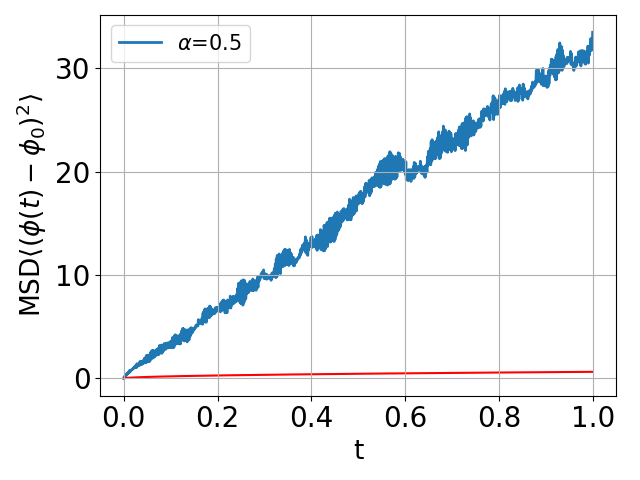
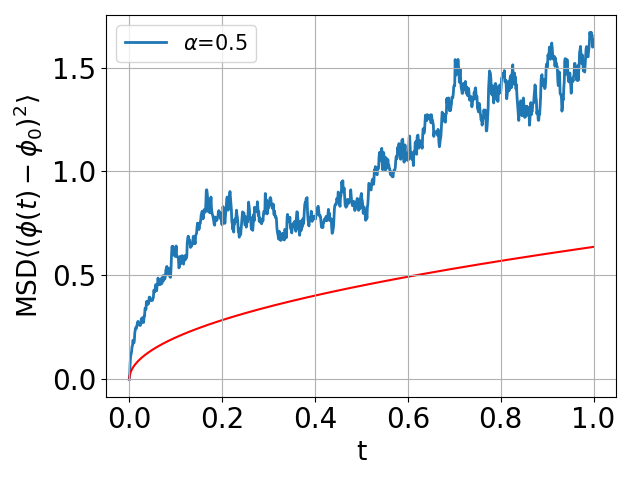
added new discretization to Caputo, working better.

diff --git a/src/world.py b/src/world.py
@@ -51,21 +51,76 @@ class afbm():
             sum_term = 0
             if time-2>=0:
                 for i in range(time-1):
-                    sum_term += (r_trajectory[i]+r_trajectory[i+1])*((time-i)**(1-self.alpha)-(time-i-1)**(1-self.alpha))
+                    sum_term += (r_trajectory[i]+r_trajectory[i+1])*((self.n-i)**(1-self.alpha)-(self.n-i-1)**(1-self.alpha))
             
             # Update rule
-            
-            # original
-            phi_current = - phi_prev + 2*(self.h)**(self.alpha-1)*(self.thetaR*gamma(2-self.alpha)*(B_H[time]-B_H[0])) - sum_term
-            
-            # print(B_H[time], sum_term)
-            
-            # tentatives
-            # phi_current = - phi_prev + 2*(self.h)**(self.alpha-1)*(self.thetaR*gamma(2-self.alpha)*(B_H[time]-B_H[time-1])) - sum_term
-            
-            # phi_current = phi_prev + (self.h)**(self.alpha-1)*(self.thetaR*gamma(2-self.alpha)*(B_H[time]-B_H[time-1])) + sum_term
-            # phi_current = phi_prev + (B_H[time] - B_H[time-1])
 
+            phi_current = - phi_prev + 2*(self.h)**(self.alpha-1)*(self.thetaR*gamma(2-self.alpha)*(B_H[time])) - sum_term
+
+            # Save and update old 
+            r_trajectory[time] = phi_current
+            phi_prev = np.copy(phi_current)
+            
+        return r_trajectory
+
+    def cnj(self, k):
+        return (k+1)**(1-self.alpha) - k**(1-self.alpha)
+
+    def trajectory_new_discr(self):
+        
+        # Generate noise 
+        f = FBM(n = self.n, hurst = self.H, length = self.Tf, method = 'daviesharte')
+        B_H = f.fbm()
+        # B_H = f.fbm()/np.sqrt(self.H*(2*self.H-1)*gamma(2*self.H-1))
+        
+        dB_H = self.n/self.Tf*np.diff(B_H)
+        
+        # Loop over timesteps
+        r_trajectory = np.zeros(self.n)
+        phi_prev = self.phi0
+        for time in range(1, self.n):
+            
+            # Sum term
+            sum_term = 0
+            for i in range(1, time-1):
+                
+                sum_term += self.cnj(time-i) * (r_trajectory[i]-r_trajectory[i+1])
+            
+            # Update rule
+            phi_current = phi_prev + ((self.h)**(self.alpha))*(gamma(2-self.alpha)*dB_H[time]) + sum_term
+
+            # Save and update old 
+            r_trajectory[time] = phi_current
+            phi_prev = np.copy(phi_current)
+            
+        return r_trajectory
+    
+    def bi(self, k):
+        
+        return (k+1)**(1-self.alpha) - k**(1-self.alpha)
+    
+    def trajectory_new_discr2(self):
+        
+        # Generate noise 
+        f = FBM(n = self.n, hurst = self.H, length = self.Tf, method = 'daviesharte')
+        B_H = f.fbm()
+        # B_H = f.fbm()/np.sqrt(self.H*(2*self.H-1)*gamma(2*self.H-1))
+        
+        dB_H = self.n/self.Tf*np.diff(B_H)
+        
+        # Loop over timesteps
+        r_trajectory = np.zeros(self.n)
+        phi_prev = self.phi0
+        for time in range(1, self.n):
+            
+            # Sum term
+            sum_term = 0
+            for i in range(1, time-1):
+                
+                sum_term += self.bi(time) * (r_trajectory[i])
+            
+            # Update rule
+            phi_current = ((self.h)**(self.alpha))*(gamma(2-self.alpha)*dB_H[time]) + sum_term
 
             # Save and update old 
             r_trajectory[time] = phi_current
@@ -75,9 +130,11 @@ class afbm():
 
     def run(self):
             for r in range(self.realizations):
-                print("----Running for alpha", self.alpha, 'realization', r)
+                # print("----Running for alpha", self.alpha, 'realization', r)
 
-                r_trajectory = self.trajectory()
+                # r_trajectory = self.trajectory()
+                r_trajectory = self.trajectory_new_discr()
+                # r_trajectory = self.trajectory_new_discr2()
 
                 self.phi_matrix = np.vstack((self.phi_matrix, r_trajectory))
                 

diff --git a/src/fLe.py b/src/fLe.py
@@ -37,7 +37,7 @@ class fle():
         if self.alpha == 1:
             self.A_H = 1
         else:
-            self.A_H = 1#1/np.sqrt(H*(2*H-1)*gamma(2*H-1))
+            self.A_H = 1/np.sqrt(H*(2*H-1)*gamma(2*H-1))
            
             
     def relaxation_overdamped(self):
@@ -144,33 +144,33 @@ def get_msd(eq,realizations):
         df_msd["x_"+str(r)] = eq.numerical        
     df_msd.set_index("t", inplace = True)
 
-    msd = fbs.msd(df_msd, True)
+    msd = fbs.msd(df_msd, False)
     return msd
 
 realizations = 100
 
 
-alpha = 1
-eq1 = fle(alpha)
-eq1.params(h=0.01, Tf=10, T0 = 0)
-msd1 = get_msd(eq1,realizations)
+# alpha = 1
+# eq1 = fle(alpha)
+# eq1.params(h=0.01, Tf=10, T0 = 0)
+# msd1 = get_msd(eq1,realizations)
 
 alpha = 0.5
 eq05 = fle(alpha)
-eq05.params(h=0.01, Tf=10, T0 = 0)
+eq05.params(h=0.001, Tf=1, T0 = 0)
 msd05 = get_msd(eq05,realizations)
 
 
 alpha = 0.3
 eq03 = fle(alpha)
-eq03.params(h=0.01, Tf=10, T0 = 0)
+eq03.params(h=0.001, Tf=1, T0 = 0)
 msd03 = get_msd(eq03,realizations)
 
 
 import matplotlib.pyplot as plt
 plt.plot(eq03.t,msd03, label = "0.3")
 plt.plot(eq05.t,msd05, label = "0.5")
-plt.plot(eq1.t,msd1, label = "1")
+# plt.plot(eq1.t,msd1, label = "1")
 #plt.plot(eq.t, msd_teo)
 plt.legend()
 plt.show()

diff --git a/src/script_phi.py b/src/script_phi.py
@@ -8,11 +8,11 @@ import time
 start_time = time.time()
 
 # alphas = [0.1, 0.3, 0.5, 0.7, 0.9, 1]
-alphas = [0.5]
+alphas = [0.3, 0.5, 1]
 # H = 0.1
-realizations = 100
-Tf = 1
-h = 1e-3    
+realizations = 1000
+Tf = 10
+h = 1e-2
 run = True
 envs=[]
 
